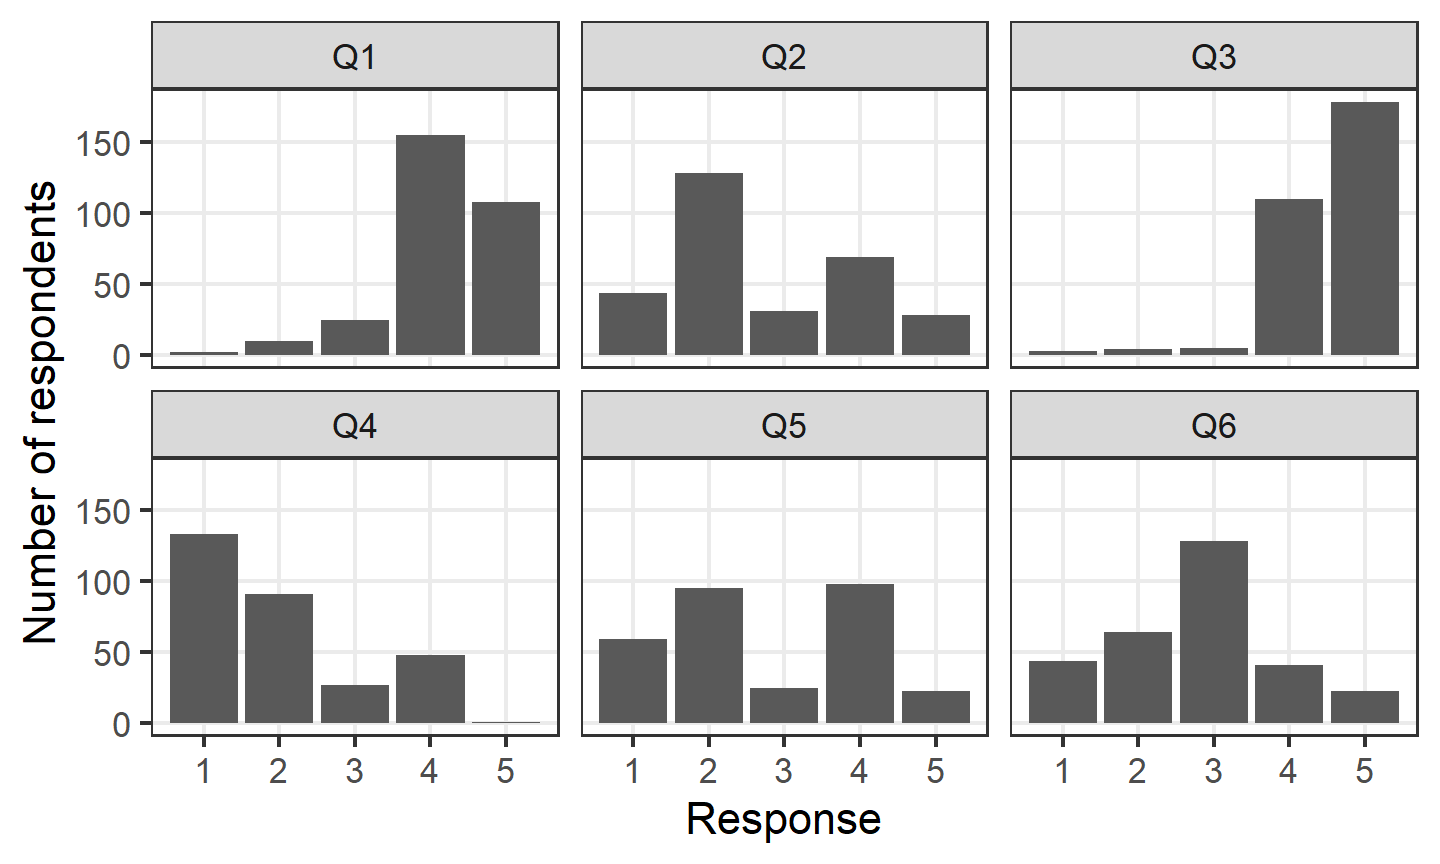
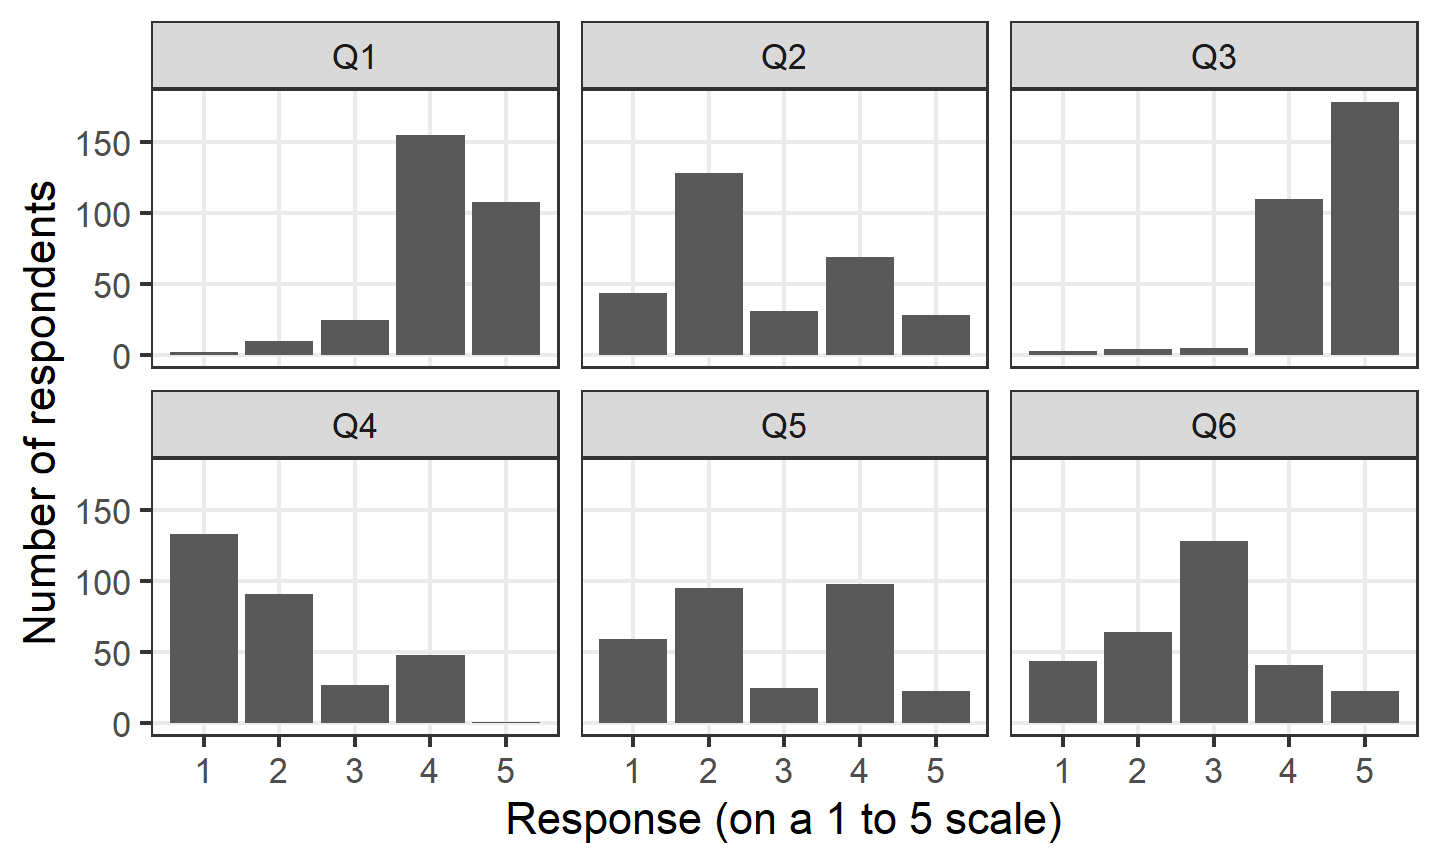
publish multiple Ys post

Changed region(s): [[0.3438, 0.9062, 0.75, 0.9688]]

diff --git a/content/post/2019/11/plotting-multiple-variables-ggplot2-tidyr/index.html b/content/post/2019/11/plotting-multiple-variables-ggplot2-tidyr/index.html
@@ -2,7 +2,7 @@
 title: Plotting multiple variables at once using ggplot2 and tidyr
 author: Cameron Patrick
 date: '2019-11-26'
-draft: true
+draft: false
 slug: plotting-multiple-variables-ggplot2-tidyr
 categories: []
 tags:
@@ -11,8 +11,10 @@ tags:
   - tidyr
   - graphs
 subtitle: ''
-summary: ''
-lastmod: '2019-11-26T08:00:00+11:00'
+summary: 'In exploratory data analysis, it''s common to want to make similar
+  plots of a number of variables at once. Here is a way to achieve
+  the same thing using R and `ggplot2`.'
+lastmod: '2019-11-26T11:00:00+11:00'
 featured: no
 image:
   caption: ''
@@ -25,69 +27,103 @@ projects: []
 
 <p>In exploratory data analysis, it’s common to want to make similar
 plots of a number of variables at once. For example, a randomised trial may
-look at several outcomes, or a survey may have a large number of items. Some
+look at several outcomes, or a survey may have a large number of questions. Some
 packages—for example, Minitab—make it easy to put several variables on the
-same plot with an option for “multiple Ys”. Here are a couple of ways of achieving
+same plot with an option for “multiple Ys”. Here is a way to achieve
 the same thing using R and <code>ggplot2</code>.</p>
 <div id="pivoting-longer-turning-your-variables-into-rows" class="section level2">
 <h2>Pivoting longer: turning your variables into rows</h2>
 <p><code>ggplot2</code> doesn’t provide an easy facility to plot multiple variables
-at once because this is usually a sign that <a href="https://vita.had.co.nz/papers/tidy-data.pdf">your data is not “tidy”</a>. For example, if you want
-to plot two variables on a graph as points with different colours, the two
-columns probably really represent the same variable, and there is a hidden
+at once because this is usually a sign that <a href="https://r4ds.had.co.nz/tidy-data.html">your data is not “tidy”</a>. For example, in situations where you want
+to plot two columns on a graph as points with different colours, the two
+columns often really represent the same variable, and there is a hidden
 grouping factor which distinguishes the data points you want to colour differently.
 The usual answer in this scenario is that you
 should restructure your data before plotting it. As a bonus, it will probably be
-easier to analyse that way too.</p>
-<p>It is less obviously true that if you want to split a plot into panels (or
-facets, in <code>ggplot2</code>-speak) then the different panels must represent an underlying grouping factor, but as far as <code>gglot2</code> is concerned, the same logic applies:
+easier to analyse your data in that form too.</p>
+<p>Likewise, if you want to split a plot into panels (or
+facets, in <code>ggplot2</code>-speak),
 you must plot a single response variable, with a grouping variable to indicate
 which panel the data should be plotted in.
 The best structure for your data depends
 on what you’re trying to do with it, and in this situation, even if your data
-is in the right form for modelling, it may not be right for the plots you want
+is in the right form for analysis, it may not be right for some of the plots you want
 to make.</p>
-<p>Fortunately, this kind of restructuring is straightforward using the <code>tidyr</code>
-package and the <code>pivot_longer()</code> function. For example, if you have a survey with six
-questions stored in variables <code>Q1</code> through <code>Q6</code>. The original data frame looks like
-this:</p>
-<pre class="r"><code>glimpse(survey_data)</code></pre>
-<pre><code>## Observations: 300
-## Variables: 7
-## $ group &lt;int&gt; 2, 2, 2, 2, 1, 1, 1, 2, 2, 2, 1, 1, 2, 1, 1, 1, 1, 1, 1,...
-## $ Q1    &lt;int&gt; 4, 5, 5, 5, 5, 5, 4, 4, 4, 4, 4, 4, 2, 4, 4, 3, 4, 5, 4,...
-## $ Q2    &lt;int&gt; 1, 2, 4, 1, 2, 3, 3, 3, 4, 4, 4, 2, 3, 2, 4, 2, 2, 4, 5,...
-## $ Q3    &lt;int&gt; 4, 5, 4, 5, 5, 5, 5, 5, 4, 5, 4, 5, 4, 4, 5, 4, 5, 5, 4,...
-## $ Q4    &lt;int&gt; 1, 4, 2, 2, 1, 3, 1, 1, 1, 2, 1, 1, 2, 2, 1, 3, 4, 2, 2,...
-## $ Q5    &lt;int&gt; 2, 3, 2, 4, 1, 2, 4, 2, 3, 5, 4, 5, 4, 4, 2, 2, 5, 4, 4,...
-## $ Q6    &lt;int&gt; 3, 3, 3, 3, 2, 2, 1, 1, 2, 4, 3, 2, 4, 4, 3, 3, 3, 2, 3,...</code></pre>
+<p>Fortunately, restructuring your data into the right form is straightforward using the <code>tidyr</code>
+package and the <code>pivot_longer()</code> function. In this example, I’m going to look at some
+mocked-up survey data, with six questions stored in variables <code>Q1</code> through <code>Q6</code>.
+The original data frame looks like this:</p>
+<pre class="r"><code>print(survey_data)</code></pre>
+<pre><code>## # A tibble: 300 x 7
+##    group    Q1    Q2    Q3    Q4    Q5    Q6
+##    &lt;fct&gt; &lt;int&gt; &lt;int&gt; &lt;int&gt; &lt;int&gt; &lt;int&gt; &lt;int&gt;
+##  1 B         4     1     4     1     2     3
+##  2 B         5     2     5     4     3     3
+##  3 B         5     4     4     2     2     3
+##  4 B         5     1     5     2     4     3
+##  5 A         5     2     5     1     1     2
+##  6 A         5     3     5     3     2     2
+##  7 A         4     3     5     1     4     1
+##  8 B         4     3     5     1     2     1
+##  9 B         4     4     4     1     3     2
+## 10 B         4     4     5     2     5     4
+## # ... with 290 more rows</code></pre>
 <p>You can convert this into a
 longer data frame where the question number is stored in one column and the
 response is stored in a separate column:</p>
 <pre class="r"><code>longer_data &lt;- survey_data %&gt;%
   pivot_longer(Q1:Q6, names_to = &quot;question&quot;, values_to = &quot;response&quot;)
-glimpse(longer_data)</code></pre>
-<pre><code>## Observations: 1,800
-## Variables: 3
-## $ group    &lt;int&gt; 2, 2, 2, 2, 2, 2, 2, 2, 2, 2, 2, 2, 2, 2, 2, 2, 2, 2,...
-## $ question &lt;chr&gt; &quot;Q1&quot;, &quot;Q2&quot;, &quot;Q3&quot;, &quot;Q4&quot;, &quot;Q5&quot;, &quot;Q6&quot;, &quot;Q1&quot;, &quot;Q2&quot;, &quot;Q3&quot;,...
-## $ response &lt;int&gt; 4, 1, 4, 1, 2, 3, 5, 2, 5, 4, 3, 3, 5, 4, 4, 2, 2, 3,...</code></pre>
-<p>You don’t even need to store the ‘long form’ data as a separate variable; it’s
-possible to pipe data straight into <code>ggplot2</code>. Here I use the <code>facet_wrap()</code>
-function to make each question a separate panel:</p>
+print(longer_data)</code></pre>
+<pre><code>## # A tibble: 1,800 x 3
+##    group question response
+##    &lt;fct&gt; &lt;chr&gt;       &lt;int&gt;
+##  1 B     Q1              4
+##  2 B     Q2              1
+##  3 B     Q3              4
+##  4 B     Q4              1
+##  5 B     Q5              2
+##  6 B     Q6              3
+##  7 B     Q1              5
+##  8 B     Q2              2
+##  9 B     Q3              5
+## 10 B     Q4              4
+## # ... with 1,790 more rows</code></pre>
+<p>You don’t even need to store the ‘long form’ data as a separate variable. If you’re
+not going to use the data in this form for anything else, it’s
+simpler to pipe the data straight into <code>ggplot2</code>. Here I use the <code>facet_wrap()</code>
+function to plot each question in a separate panel, so we can see the distribution
+of all of the questions at once:</p>
 <pre class="r"><code>survey_data %&gt;%
   pivot_longer(Q1:Q6, names_to = &quot;question&quot;, values_to = &quot;response&quot;) %&gt;%
   ggplot(aes(x = response)) +
   geom_bar() +
   facet_wrap(vars(question), ncol = 3) +
-  labs(x = &quot;Response&quot;, y = &quot;Number of respondents&quot;)</code></pre>
+  labs(x = &quot;Response (on a 1 to 5 scale)&quot;, y = &quot;Number of respondents&quot;)</code></pre>
 <p><img src="/post/2019/11/plotting-multiple-variables-ggplot2-tidyr/index_files/figure-html/panel-plot-1.png" width="720" /></p>
-<p>By default, R will sort the order of factors alphabetically. This isn’t necessarily
-what you want in this situation. The <code>fct_inorder()</code> function allows you to reorder
+<p>You can use <code>question</code> as a factor anywhere else you would use a categorical
+variable with ggplot. For example, you can make some box plots:</p>
+<pre class="r"><code>survey_data %&gt;%
+  pivot_longer(Q1:Q6, names_to = &quot;question&quot;, values_to = &quot;response&quot;) %&gt;%
+  ggplot(aes(y = response, x = question)) +
+  geom_boxplot() +
+  labs(x = &quot;Question&quot;, y = &quot;Response (on a 1 to 5 scale)&quot;)</code></pre>
+<p><img src="/post/2019/11/plotting-multiple-variables-ggplot2-tidyr/index_files/figure-html/box-plot-1.png" width="720" /></p>
+<p>This is also a nice demonstration of how box plots are rarely the best way to
+present Likert scale data.</p>
+<p>Any other variables are retained after you call <code>pivot_longer()</code>, so you can
+e.g. compare the responses to survey questions based on a demographic variable:</p>
+<pre class="r"><code>survey_data %&gt;%
+  pivot_longer(Q1:Q6, names_to = &quot;question&quot;, values_to = &quot;response&quot;) %&gt;%
+  ggplot(aes(x = response, colour = group)) +
+  facet_wrap(vars(question), ncol = 3) +
+  geom_point(stat = &quot;count&quot;) +
+  geom_line(stat = &quot;count&quot;) +
+  labs(x = &quot;Response (on a 1 to 5 scale)&quot;, y = &quot;Number of respondents&quot;)</code></pre>
+<p><img src="/post/2019/11/plotting-multiple-variables-ggplot2-tidyr/index_files/figure-html/line-plot-1.png" width="720" /></p>
+<p>By default, R will sort the levels of factors alphabetically. This isn’t always
+what you want in this situation—often the order of the variables in your data
+frame has some meaning to it. The <code>fct_inorder()</code> function allows you to reorder
 levels of a factor in the order of first appearance in the file. If you use that
 with the column produced by <code>pivot_longer()</code>, the factor will be ordered by the
 order of the columns in the original data frame.</p>
-</div>
-<div id="making-multiple-plots-and-combining-them-with-grid.arrange" class="section level2">
-<h2>Making multiple plots and combining them with grid.arrange</h2>
 </div>
